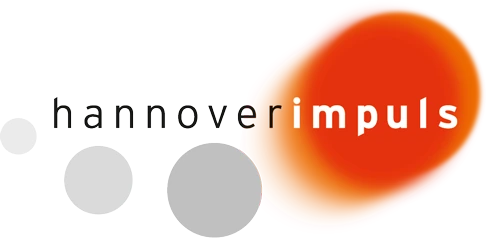
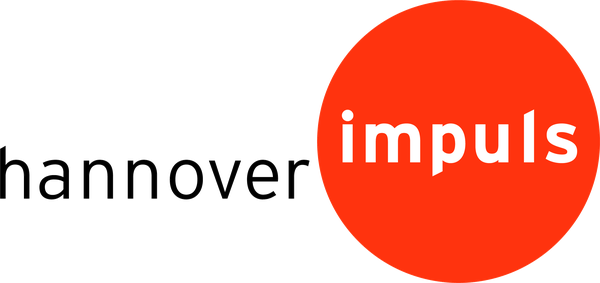
update sponsors images

diff --git a/index.html b/index.html
@@ -832,8 +832,9 @@
       <div style="margin:38px 0 20px">
         <div style="font-size:10.5px;letter-spacing:.18em;text-transform:uppercase;color:var(--color-neutral-700);margin-bottom:20px">Our sponsors</div>
         <div style="display:flex;flex-direction:column;align-items:center;gap:26px">
-          <img src="images/sponsor-hannoverimpuls.webp" width="487" height="238" alt="hannoverimpuls" loading="lazy" decoding="async" style="display:block;height:58px;width:auto;max-width:80%">
-          <img src="images/sponsor-cispa.webp" width="640" height="162" alt="CISPA Helmholtz Center for Information Security" loading="lazy" decoding="async" style="display:block;height:42px;width:auto;max-width:85%">
+          <img src="images/sponsor-hannoverimpuls.webp" width="600" height="283" alt="hannoverimpuls" loading="lazy" decoding="async" style="display:block;height:50px;width:auto;max-width:64%">
+          <img src="images/sponsor-cispa.webp" width="640" height="162" alt="CISPA Helmholtz Center for Information Security" loading="lazy" decoding="async" style="display:block;height:36px;width:auto;max-width:85%">
+          <img src="images/sponsor-google.svg" width="270" height="82" alt="Google" loading="lazy" decoding="async" style="display:block;height:40px;width:auto;max-width:79%">
         </div>
       </div>
     </div>

diff --git a/sw.js b/sw.js
@@ -1,6 +1,6 @@
 /* SOUPS 2026 Hannover Guide — offline service worker.
    Cache-first for the app shell, network-first (with cache fallback) for map tiles. */
-const VERSION = 'soups26-guide-v14';
+const VERSION = 'soups26-guide-v15';
 const SHELL = [
   './',
   './index.html',
@@ -13,6 +13,7 @@ const SHELL = [
   './images/welfenschloss.webp',
   './images/sponsor-hannoverimpuls.webp',
   './images/sponsor-cispa.webp',
+  './images/sponsor-google.svg',
   './images/wifi-uhevent.svg',
   './_ds/broadsheet-f75e36a9-287e-4ae1-8947-5158a447224a/styles.css',
   './_ds/broadsheet-f75e36a9-287e-4ae1-8947-5158a447224a/_ds_bundle.js'
